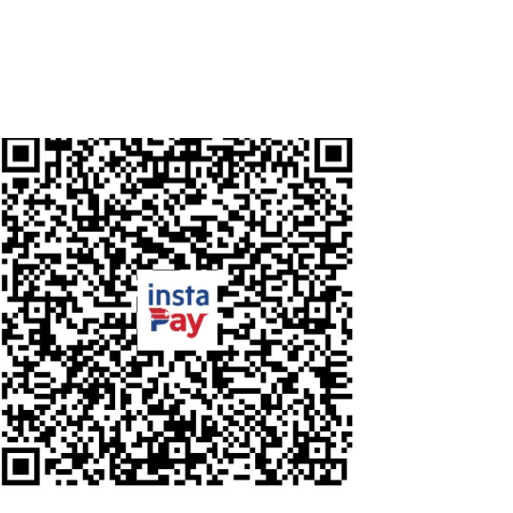
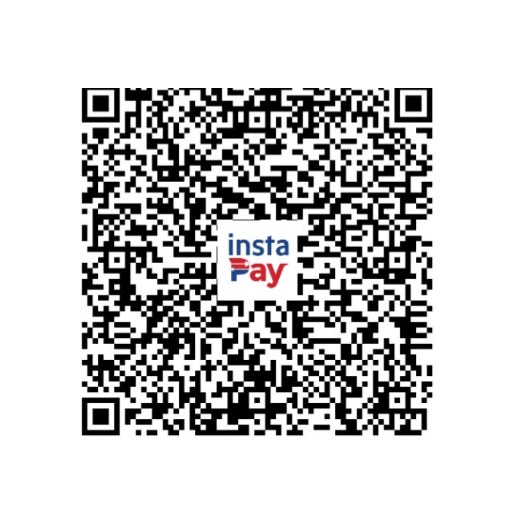
Align the InstaPay QR codes to the same size.
Each code is framed in a matching square and the cards keep the same width, so the codes line up across the grid.

diff --git a/index.html b/index.html
@@ -17,13 +17,16 @@ h2{font-family:'Cormorant Garamond',serif;font-size:2.3rem;text-align:center;col
 .letter{background:#fff;border-radius:18px;padding:34px 28px;box-shadow:0 6px 24px rgba(90,61,43,.08);border-top:4px solid var(--gold)}
 .letter strong{color:#7a4e2c}.sig{font-family:'Cormorant Garamond',serif;font-style:italic;font-size:1.3rem;text-align:center;margin-top:24px}
 .note{text-align:center;margin:-10px 0 26px;color:#7a6a5c}
-.grid{display:grid;grid-template-columns:repeat(auto-fit,minmax(250px,1fr));gap:20px}
+.grid{display:grid;gap:20px;grid-template-columns:1fr;align-items:stretch}
+@media(min-width:700px){.grid{grid-template-columns:1fr 1fr}}
+@media(min-width:980px){.grid{grid-template-columns:1fr 1fr 1fr}}
 .card{background:#fff;border-radius:18px;overflow:hidden;box-shadow:0 6px 24px rgba(90,61,43,.1);display:flex;flex-direction:column}
 .card header{background:var(--c);color:#fff;padding:14px 20px;font-weight:700;font-size:1.2rem}
 .card .body{padding:18px 20px;flex:1;display:flex;flex-direction:column;gap:6px}
 .lbl{font-size:.72rem;text-transform:uppercase;letter-spacing:.1em;color:#9a8a7c}
 .num{font-size:1.25rem;font-weight:700;letter-spacing:.04em}
-.card img{width:100%;margin:10px auto 0;display:block;border-radius:10px;background:#fff}
+.qrbox{width:200px;height:200px;margin:auto auto 0;position:relative;overflow:hidden;flex:0 0 auto;background:#fff}
+.qrbox img{position:absolute;left:0;top:0;width:200px;height:200px;max-width:none;transform-origin:0 0;transform:translate(calc(var(--tx)*1px),calc(var(--ty)*1px)) scale(var(--s))}
 .row{display:flex;gap:8px;margin-top:12px}
 .row button,.row a{flex:1;text-align:center;border:1.5px solid var(--c);color:var(--c);background:#fff;border-radius:10px;padding:9px;font:700 .9rem Lato;cursor:pointer;text-decoration:none}
 .row button{background:var(--c);color:#fff}
@@ -44,7 +47,7 @@ footer{text-align:center;padding:30px;color:#9a8a7c;font-size:.9rem}
 <section id="give"><h2>Ways to Give</h2><p class="note">All QR codes work with InstaPay — scan from any bank or e-wallet app.</p><div class="grid" id="grid"></div></section>
 <footer>With gratitude · Hanah Nicole G. Poliquit</footer>
 <script>
-const A=[["PNB","#0a3a7a","HANAH G POLIQUIT","1282 1040 0787","pnb"],["BPI","#b11116","HANAH NICOLE GONZALES POLIQUIT","41697 71936","bpi"],["MariBank","#f26722","HANAH NICOLE POLIQUIT","1531 9570 635","maribank"],["GoTyme","#00a5a8","HANAH NICOLE G POLIQUIT","0187 4695 3344","gotyme"],["GCash","#007dfe","Hanah Nicole Poliquit","09935183386","gcash"]];
-grid.innerHTML=A.map(([n,c,nm,no,f])=>`<div class="card" style="--c:${c}"><header>${n}</header><div class="body"><span class="lbl">Account Name</span><div>${nm}</div><span class="lbl">Account Number</span><div class="num">${no}</div><img src="qr/${f}.png?v=4" alt="${n} InstaPay QR code" onerror="this.remove();document.getElementById('d-${f}').remove()"><div class="row"><button onclick="cp(this,'${no.replace(/ /g,'')}')">Copy Number</button><a id="d-${f}" href="qr/${f}.png?v=4" download="${n}-QR.png">Download QR</a></div></div></div>`).join('');
+const A=[["PNB","#0a3a7a","HANAH G POLIQUIT","1282 1040 0787","pnb",1.2924,-29.23,-30.23],["BPI","#b11116","HANAH NICOLE GONZALES POLIQUIT","41697 71936","bpi",1.0147,-1.83,-0.37],["MariBank","#f26722","HANAH NICOLE POLIQUIT","1531 9570 635","maribank",1.0160,-1.29,-0.69],["GoTyme","#00a5a8","HANAH NICOLE G POLIQUIT","0187 4695 3344","gotyme",0.9907,1.17,1.17],["GCash","#007dfe","Hanah Nicole Poliquit","09935183386","gcash",1.5066,-33.60,-32.96]];
+grid.innerHTML=A.map(([n,c,nm,no,f,s,tx,ty])=>`<div class="card" style="--c:${c}"><header>${n}</header><div class="body"><span class="lbl">Account Name</span><div>${nm}</div><span class="lbl">Account Number</span><div class="num">${no}</div><div class="qrbox"><img style="--s:${s};--tx:${tx};--ty:${ty}" src="qr/${f}.png?v=5" alt="${n} InstaPay QR code"></div><div class="row"><button onclick="cp(this,'${no.replace(/ /g,'')}')">Copy Number</button><a id="d-${f}" href="qr/${f}.png?v=5" download="${n}-QR.png">Download QR</a></div></div></div>`).join('');
 function cp(b,t){navigator.clipboard.writeText(t).then(()=>{b.textContent='Copied ✓';setTimeout(()=>b.textContent='Copy Number',1500)})}
 </script></body></html>
